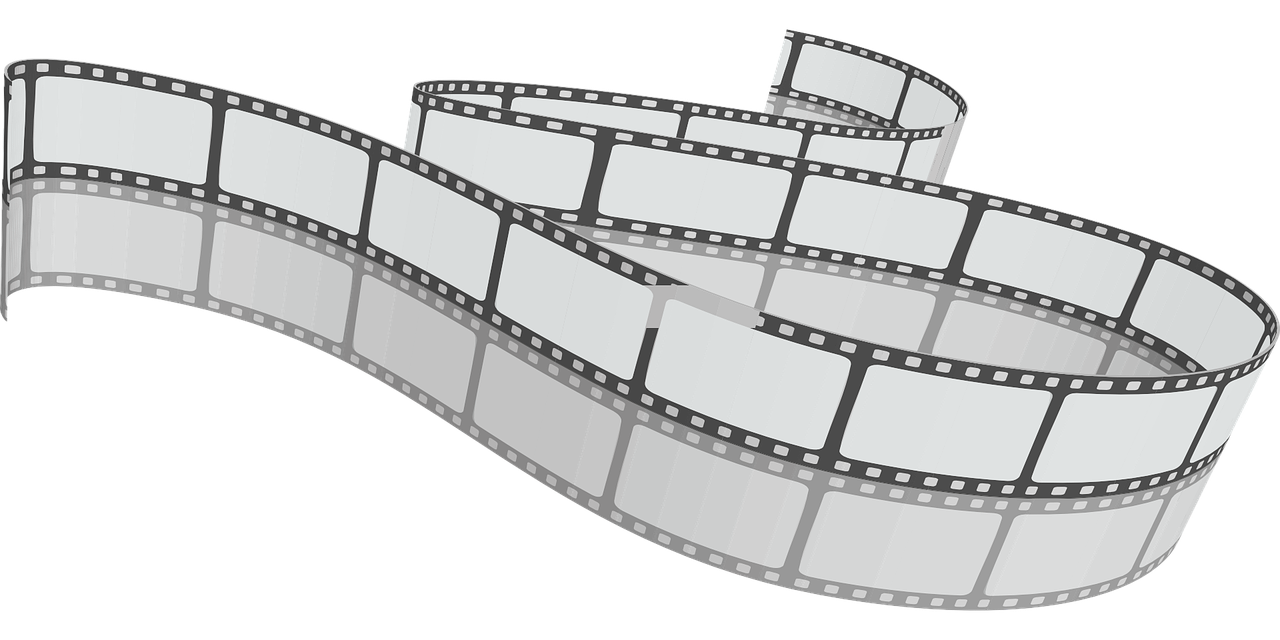
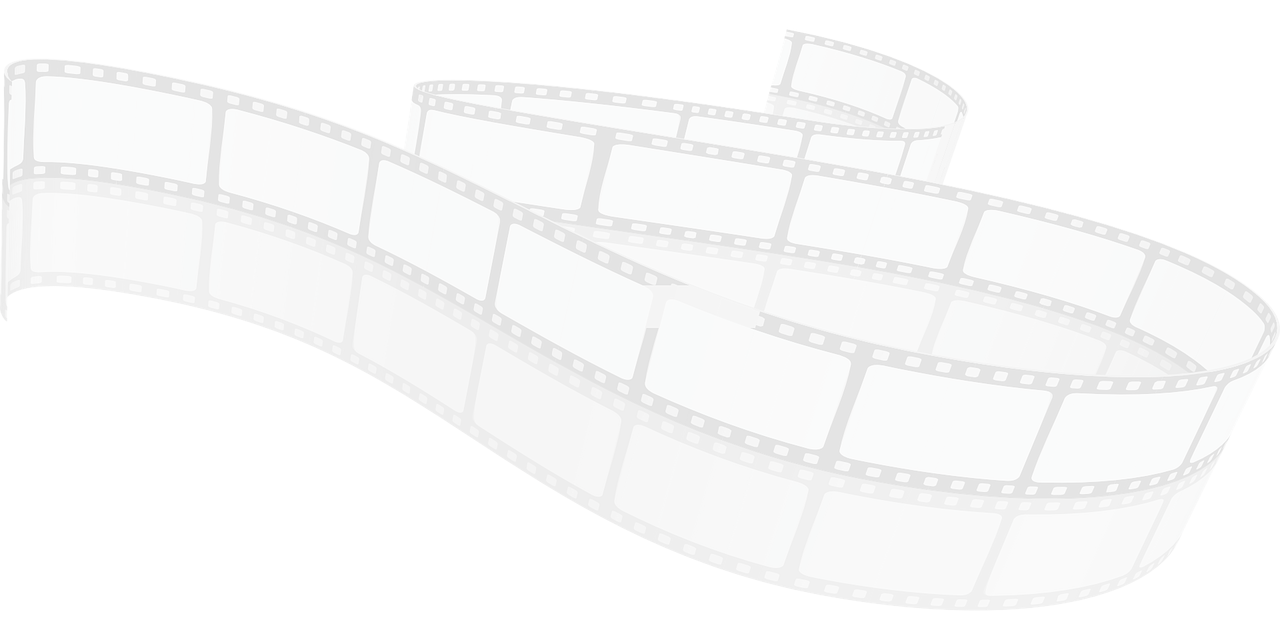
added edited image to folder, created styling for link to read reviews

diff --git a/assets/js/script.js b/assets/js/script.js
@@ -143,12 +143,17 @@ function createReviewDataElements(array) {
     // dynamically create elements
     var nytTitle = document.createElement("h2");
     var nytLink = document.createElement("a");
+    var nytDiv = document.createElement("div");
     var nytSummary = document.createElement("p");
     // var nytAnchor = document.createElement("a");
 
     var link = array[i].link.url;
     nytLink.setAttribute("href", link);
-    nytLink.textContent = "Read Review Here";
+    nytLink.setAttribute("class", "underline")
+    nytLink.textContent = "Read review";
+
+    nytDiv.setAttribute("class", "text-red-500 cust-fnt-sz");
+    nytDiv.appendChild(nytLink);
 
     // set content on elements
     nytTitle.textContent = "Title: " + array[i].display_title;
@@ -158,7 +163,7 @@ function createReviewDataElements(array) {
 
     reviewsDiv.appendChild(nytTitle);
     reviewsDiv.appendChild(nytSummary);
-    reviewsDiv.appendChild(nytLink);
+    reviewsDiv.appendChild(nytDiv);
   }
 }
 

diff --git a/assets/css/style.css b/assets/css/style.css
@@ -1,5 +1,5 @@
 body {
-    background-image: url("../images/filmstrip-3.png");
+    background-image: url("../images/filmstrip.png");
     background-size: cover;
 }
 
@@ -9,4 +9,8 @@ body {
 
 #reviews p {
   font-size: 20px;
+}
+
+.cust-fnt-sz {
+  font-size: 21px;
 }
